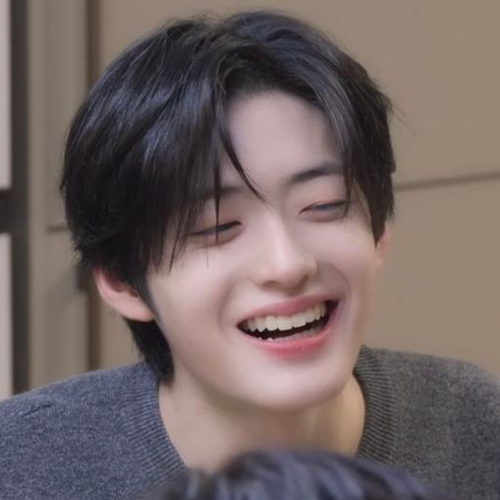
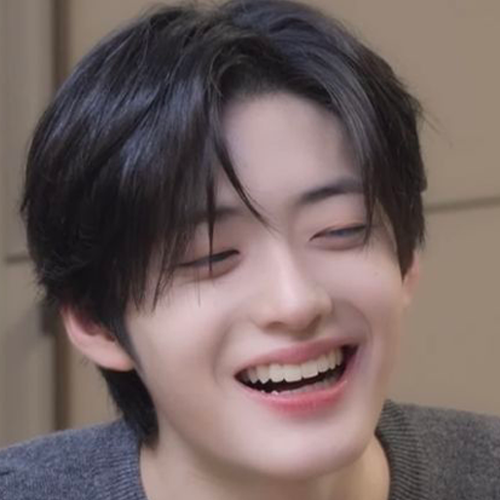
fix: fix bug

diff --git a/src/App.css b/src/App.css
@@ -3,64 +3,46 @@
    Intro / DreamMap 공통 9:16 영역
 ================================ */
 
+
+/* ==============================
+   기본 : PC
+================================ */
+
 .dream-shell {
   position: relative;
 
   width:
     min(
       100vw,
-      calc(100svh * 9 / 16)
+      calc(100dvh * 9 / 16)
     );
 
-  height:
-    min(
-      100svh,
-      calc(100vw * 16 / 9)
-    );
-
-  aspect-ratio: 9 / 16;
+  height: 100dvh;
 
   margin: 0 auto;
 
   overflow: hidden;
 }
 
-
-/* 실제 페이지 콘텐츠 */
-
-.dream-content {
-  position: relative;
-
-  width: 100%;
-  height: 100%;
-
-  z-index: 10;
-}
 
 /* ==============================
-   INTRO / DREAM MAP 공통 프레임
+   모바일 : 화면 전체
 ================================ */
 
-.dream-shell {
-  position: relative;
+@media (max-width: 600px) {
 
-  width: min(
-    100vw,
-    calc(100svh * 9 / 16)
-  );
+  .dream-shell {
+    width: 100vw;
 
-  height: min(
-    100svh,
-    calc(100vw * 16 / 9)
-  );
+    height: 100vh;
+    height: 100dvh;
 
-  aspect-ratio: 9 / 16;
+    margin: 0;
 
-  margin: 0 auto;
+    aspect-ratio: auto;
+  }
 
-  overflow: hidden;
 }
-
 
 /* Intro / DreamMap이 올라가는 영역 */
 

diff --git a/src/index.css b/src/index.css
@@ -14,12 +14,12 @@
 }
 
 
-html,
-body,
 #root {
-  margin: 0;
   width: 100%;
-  min-height: 100%;
+  min-height: 100dvh;
+
+  margin: 0;
+  padding: 0;
 }
 
 body {
@@ -35,4 +35,51 @@ input,
 textarea,
 select {
   font-family: inherit;
+}
+
+html,
+body,
+#root {
+  margin: 0;
+  padding: 0;
+
+  width: 100%;
+  min-width: 100%;
+
+  height: 100%;
+  min-height: 100%;
+
+  overflow-x: hidden;
+}
+
+* {
+  box-sizing: border-box;
+}
+
+body {
+  margin: 0;
+}
+
+.dream-page {
+  width: 100%;
+  min-height: 100vh;
+  min-height: 100dvh;
+
+  margin: 0;
+  padding: 0;
+
+  overflow: hidden;
+}
+
+.dream-shell {
+  position: relative;
+
+  width: 100%;
+  min-height: 100vh;
+  min-height: 100dvh;
+
+  margin: 0;
+  padding: 0;
+
+  overflow: hidden;
 }

diff --git a/src/components/DreamCall.jsx b/src/components/DreamCall.jsx
@@ -13,6 +13,7 @@ import hyeon5 from '../assets/hyeon5.png'
 import hyeon6 from '../assets/hyeon6.png'
 import hyeon7 from '../assets/hyeon7.png'
 import hyeon8 from '../assets/hyeon8.png'
+import hyeon9 from '../assets/hyeon9.png'
 
 function DreamCall({ onBack }) {
 
@@ -566,7 +567,7 @@ useEffect(() => {
 
 
 'hallucination-bad': {
-  image: hyeon7,
+  image: hyeon9,
 
   name: 'HYEONIE',
 
